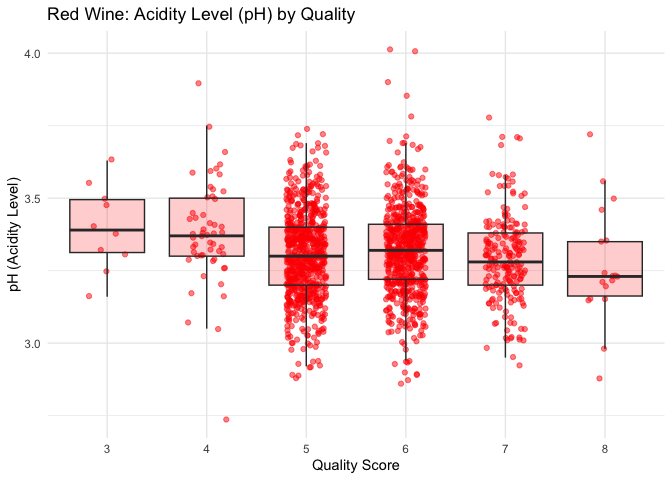
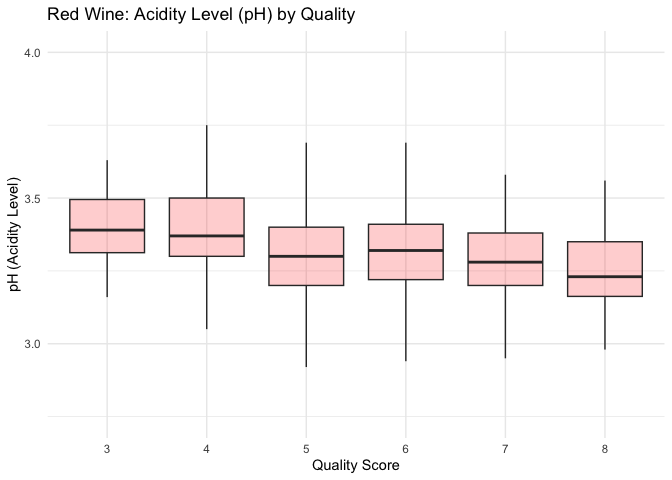
sum

diff --git a/Capstone3.md b/Capstone3.md
@@ -869,8 +869,6 @@ dataset, meaning that some of the red wines have very high alcohol
 content. There is a wider range of alcohol content in white wine than
 there is in red wine.
 
-## Scatterplots
-
 ``` r
 # Make Quality a factor for clearer x-axis grouping
 redwine_clean$Quality <- as.factor(redwine_clean$Quality)
@@ -878,7 +876,6 @@ whitewine_clean$Quality <- as.factor(whitewine_clean$Quality)
 
 # Red Wine: Jitter plot for Alcohol vs. Quality
 ggplot(redwine_clean, aes(x = Quality, y = Alcohol)) +
-  geom_jitter(width = 0.2, alpha = 0.5, color = "red") +
   geom_boxplot(outlier.shape = NA, alpha = 0.2, fill = "red") +
   theme_minimal() +
   labs(title = "Red Wine: Alcohol Content by Quality", x = "Quality Score", y = "Alcohol Content")
@@ -889,7 +886,6 @@ ggplot(redwine_clean, aes(x = Quality, y = Alcohol)) +
 ``` r
 # White Wine: Jitter plot for Alcohol vs. Quality
 ggplot(whitewine_clean, aes(x = Quality, y = Alcohol)) +
-  geom_jitter(width = 0.2, alpha = 0.5, color = "blue") +
   geom_boxplot(outlier.shape = NA, alpha = 0.2, fill = "blue") +
   theme_minimal() +
   labs(title = "White Wine: Alcohol Content by Quality", x = "Quality Score", y = "Alcohol Content")
@@ -897,27 +893,21 @@ ggplot(whitewine_clean, aes(x = Quality, y = Alcohol)) +
 
 ![](Capstone3_files/figure-gfm/unnamed-chunk-12-2.png)<!-- -->
 
-Based on the scatterplots overlaid with boxplots for alcohol content by
-quality score, we can observe clear patterns in how alcohol levels
-relate to wine quality for both red and white wines. In both plots,
-there is a general positive association between alcohol content and
-quality score—higher-quality wines tend to have slightly higher alcohol
-levels on average. This trend is more pronounced in white wines, where
-the spread of alcohol content increases steadily with quality, and the
-median alcohol level is noticeably higher in quality scores of 7 and
-above. In red wines, the relationship is also evident but more subtle,
-with some overlap in alcohol levels across quality scores. The inclusion
-of jittered points adds granularity, revealing that lower-quality wines
-(scores 3–5) cluster more tightly around lower alcohol content. These
-visualizations suggest that alcohol content may be a contributing factor
-in perceived wine quality, especially for white wines, and could warrant
-further statistical testing to assess the strength and significance of
-this relationship.
+In both plots, there is a general positive association between alcohol
+content and quality score—higher-quality wines tend to have slightly
+higher alcohol levels on average. This trend is more pronounced in white
+wines, where the spread of alcohol content increases steadily with
+quality, and the median alcohol level is noticeably higher in quality
+scores of 7 and above. In red wines, the relationship is also evident
+but more subtle, with some overlap in alcohol levels across quality
+scores. These visualizations suggest that alcohol content may be a
+contributing factor in perceived wine quality, especially for white
+wines, and could warrant further statistical testing to assess the
+strength and significance of this relationship.
 
 ``` r
 # Scatterplot for Red Wine: pH vs Quality
 ggplot(redwine_clean, aes(x = Quality, y = pH)) +
-  geom_jitter(width = 0.2, alpha = 0.5, color = "red") +
   geom_boxplot(outlier.shape = NA, alpha = 0.2, fill = "red") +
   theme_minimal() +
   labs(title = "Red Wine: Acidity Level (pH) by Quality", x = "Quality Score", y = "pH (Acidity Level)")
@@ -928,7 +918,6 @@ ggplot(redwine_clean, aes(x = Quality, y = pH)) +
 ``` r
 # Scatterplot for White Wine: pH vs Quality
 ggplot(whitewine_clean, aes(x = Quality, y = pH)) +
-  geom_jitter(width = 0.2, alpha = 0.5, color = "blue") +
   geom_boxplot(outlier.shape = NA, alpha = 0.2, fill = "blue") +
   theme_minimal() +
   labs(title = "White Wine: Acidity Level (pH) by Quality", x = "Quality Score", y = "pH (Acidity Level)")
@@ -936,7 +925,7 @@ ggplot(whitewine_clean, aes(x = Quality, y = pH)) +
 
 ![](Capstone3_files/figure-gfm/unnamed-chunk-13-2.png)<!-- -->
 
-The scatterplots of acidity level (pH) by quality for both red and white
+The boxplots of acidity level (pH) by quality for both red and white
 wines reveal only modest differences in acidity across varying quality
 scores. For red wine, the pH values generally cluster around 3.2 to 3.4,
 regardless of quality, suggesting that acidity does not vary drastically
@@ -956,7 +945,6 @@ this dataset.
 redwine$Quality <- as.factor(redwine$Quality)
 
 ggplot(redwine, aes(x = Quality, y = `Residual Sugar`)) +
-  geom_jitter(width = 0.2, alpha = 0.5, color = "red") +
   geom_boxplot(outlier.shape = NA, alpha = 0.2, fill = "red") +
   theme_minimal() +
   labs(title = "Red Wine: Residual Sugar by Quality",
@@ -971,7 +959,6 @@ ggplot(redwine, aes(x = Quality, y = `Residual Sugar`)) +
 whitewine$Quality <- as.factor(whitewine$Quality)
 
 ggplot(whitewine, aes(x = Quality, y = `Residual Sugar`)) +
-  geom_jitter(width = 0.2, alpha = 0.5, color = "blue") +
   geom_boxplot(outlier.shape = NA, alpha = 0.2, fill = "blue") +
   theme_minimal() +
   labs(title = "White Wine: Residual Sugar by Quality",
@@ -979,21 +966,18 @@ ggplot(whitewine, aes(x = Quality, y = `Residual Sugar`)) +
        y = "Residual Sugar (g/dm³)")
 ```
 
-![](Capstone3_files/figure-gfm/unnamed-chunk-14-2.png)<!-- --> In red
-wine, residual sugar levels appear relatively consistent across quality
-scores, with medians and interquartile ranges remaining narrow and
-similar. There is little variability, and most values cluster closely
-around the lower end of the residual sugar scale, suggesting that
-residual sugar is not a strong differentiator of quality in red wines.
-In contrast, white wine shows greater variability in residual sugar,
-particularly in lower quality categories. While the median values remain
-relatively low, the spread of the data increases, and several outliers
-with very high sugar content appear—especially among wines rated with
-lower quality scores. This suggests that for white wines, higher
-residual sugar may sometimes be associated with lower perceived quality,
-although the relationship is not strictly linear. Overall, the
-visualizations indicate that residual sugar plays a more dynamic role in
-white wines than in red wines when it comes to perceived quality.
+![](Capstone3_files/figure-gfm/unnamed-chunk-14-2.png)<!-- -->
+
+In red wine, residual sugar levels appear relatively consistent across
+quality scores, with medians and interquartile ranges remaining narrow
+and similar. While the median values remain relatively low, the spread
+of the data increases, and several outliers with very high sugar content
+appear—especially among wines rated with lower quality scores. This
+suggests that for white wines, higher residual sugar may sometimes be
+associated with lower perceived quality, although the relationship is
+not strictly linear. Overall, the visualizations indicate that residual
+sugar plays a more dynamic role in white wines than in red wines when it
+comes to perceived quality.
 
 ## Correlation Tests
 
